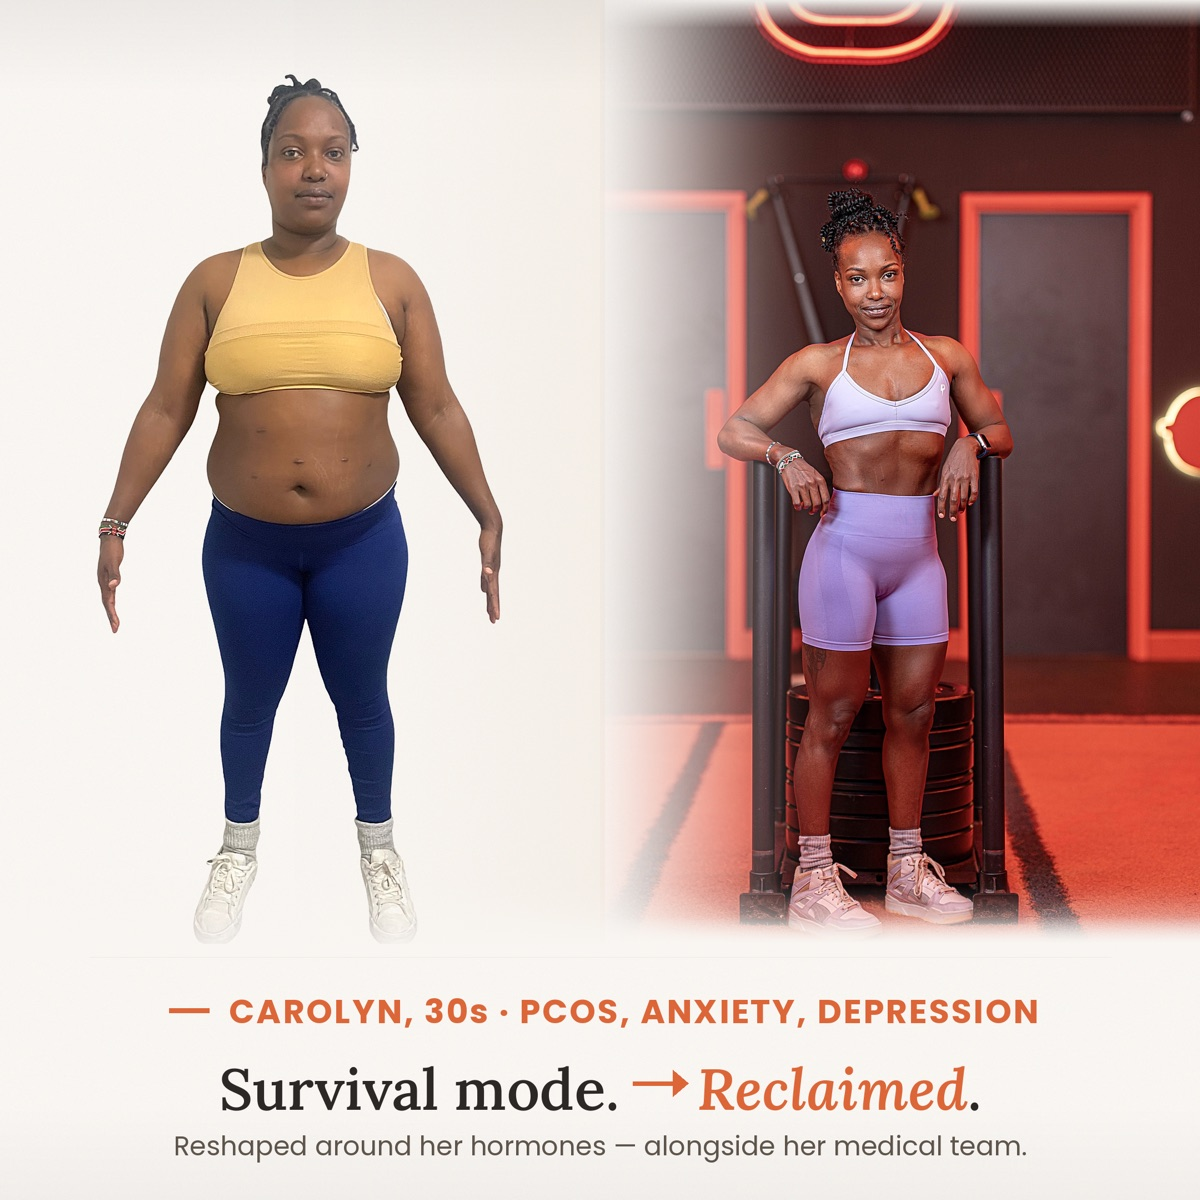
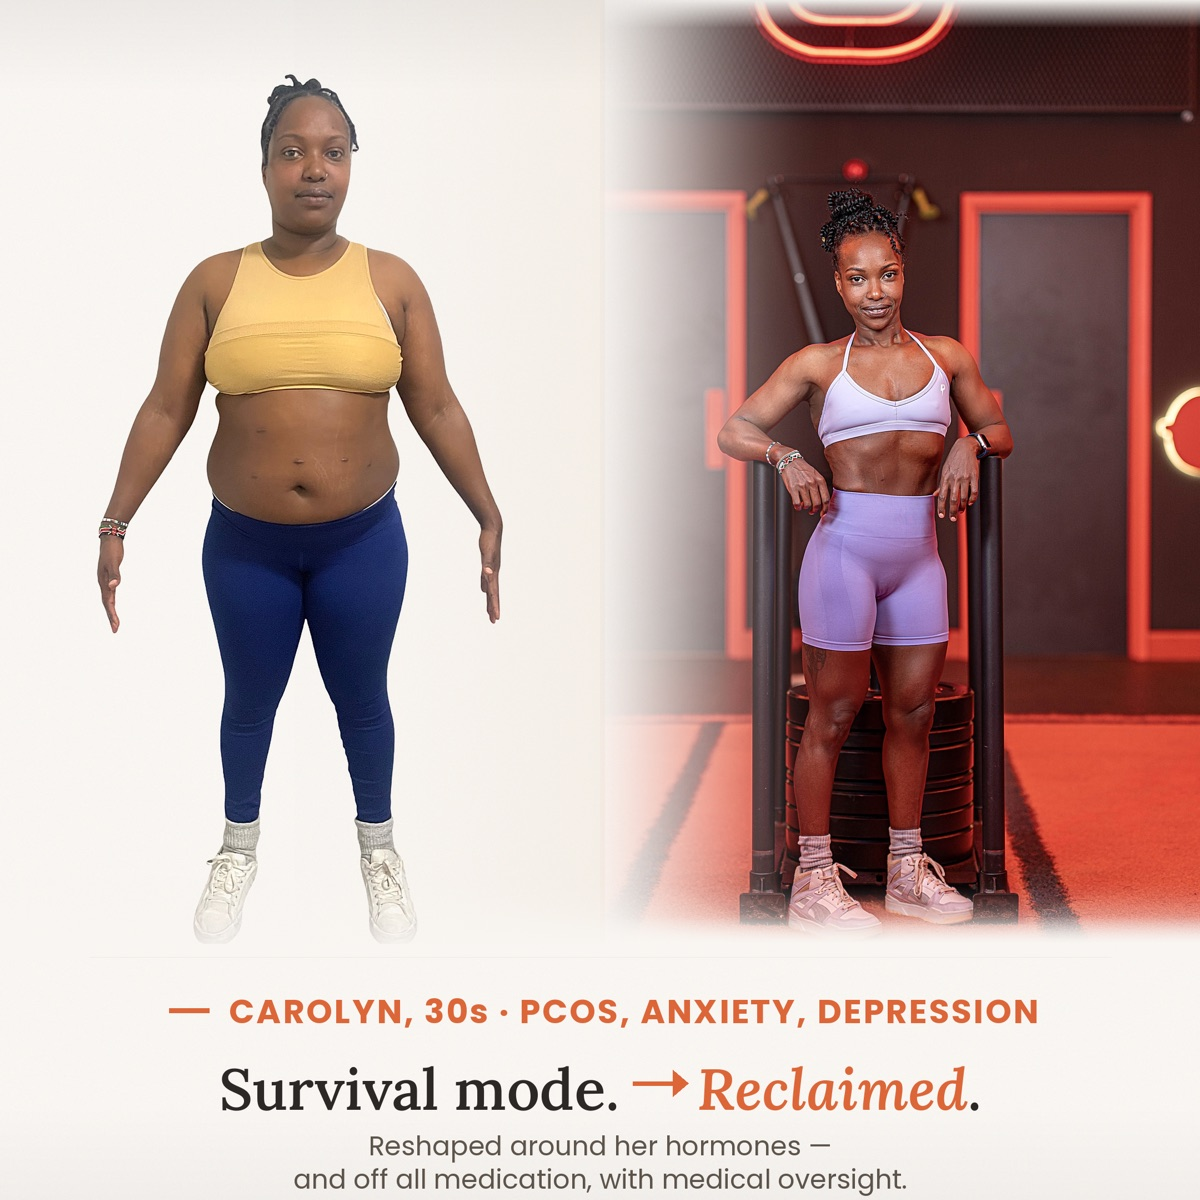
Refresh Jaime + Carolyn cards and add Lubova to hero carousel

Changed region(s): [[0.1542, 0.925, 0.7708, 1.0], [0.8017, 0.925, 0.8325, 0.9867]]

diff --git a/hormonal-assessment/index.html b/hormonal-assessment/index.html
@@ -11,7 +11,7 @@
 <link rel="preconnect" href="https://fonts.googleapis.com">
 <link rel="preconnect" href="https://fonts.gstatic.com" crossorigin>
 <link href="https://fonts.googleapis.com/css2?family=Fraunces:opsz,wght@9..144,300;9..144,400;9..144,500;9..144,600;9..144,700&family=Inter:wght@300;400;500;600&display=swap" rel="stylesheet">
-<link rel="stylesheet" href="./styles.css?v=8">
+<link rel="stylesheet" href="./styles.css?v=9">
 </head>
 <body>
 
@@ -85,6 +85,10 @@
             <img src="./images/hero/teresa.jpg" alt="Teresa — ReShape transformation" loading="lazy">
             <div class="hero-slide-cap"><div class="hero-slide-name">Teresa</div></div>
           </a>
+          <a href="./quiz.html" class="hero-slide">
+            <img src="./images/hero/lubova.jpg" alt="Lubova — ReShape transformation" loading="lazy">
+            <div class="hero-slide-cap"><div class="hero-slide-name">Lubova</div></div>
+          </a>
         </div>
       </div>
       <div class="hero-dots" role="tablist" aria-label="Choose a transformation">
@@ -95,6 +99,7 @@
         <button class="hero-dot"        type="button" data-i="4" role="tab" aria-label="Show Julija"></button>
         <button class="hero-dot"        type="button" data-i="5" role="tab" aria-label="Show Sara"></button>
         <button class="hero-dot"        type="button" data-i="6" role="tab" aria-label="Show Teresa"></button>
+        <button class="hero-dot"        type="button" data-i="7" role="tab" aria-label="Show Lubova"></button>
       </div>
     </div>
   </div>
